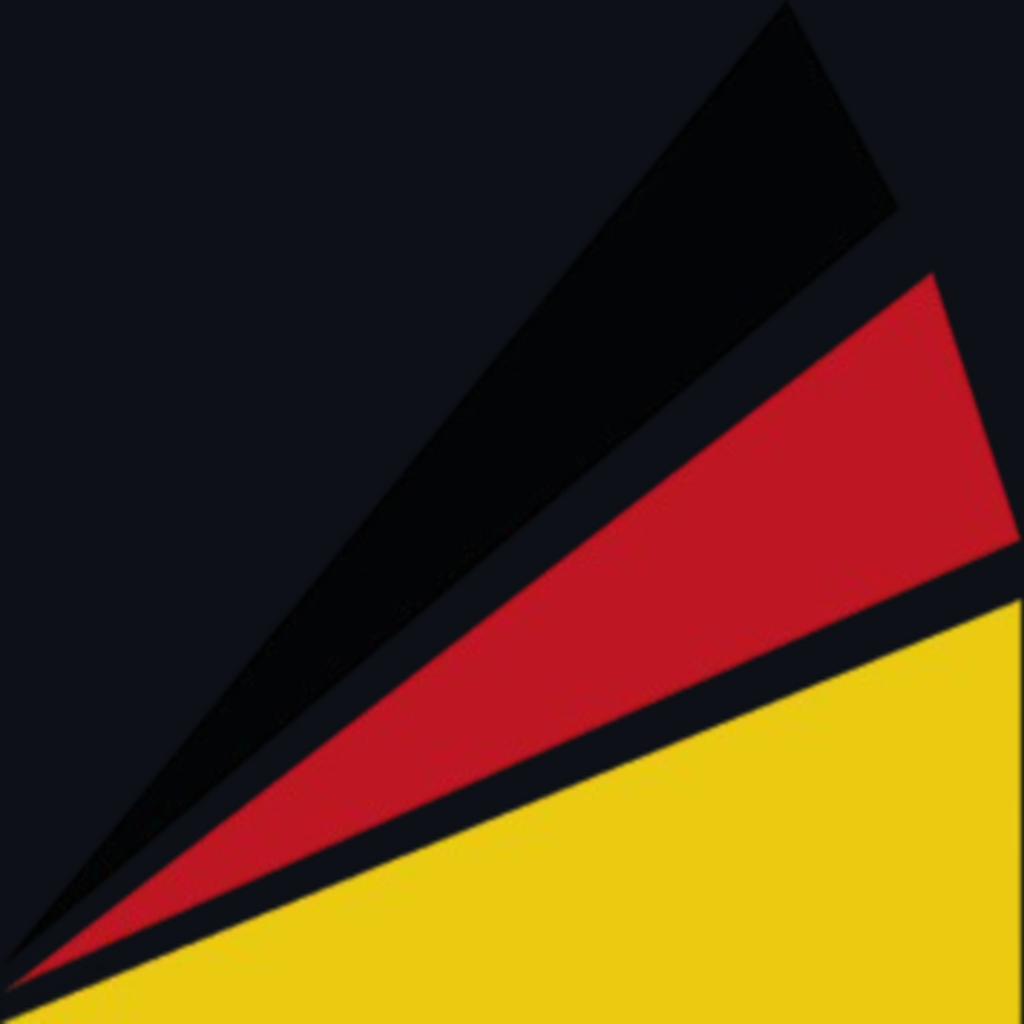
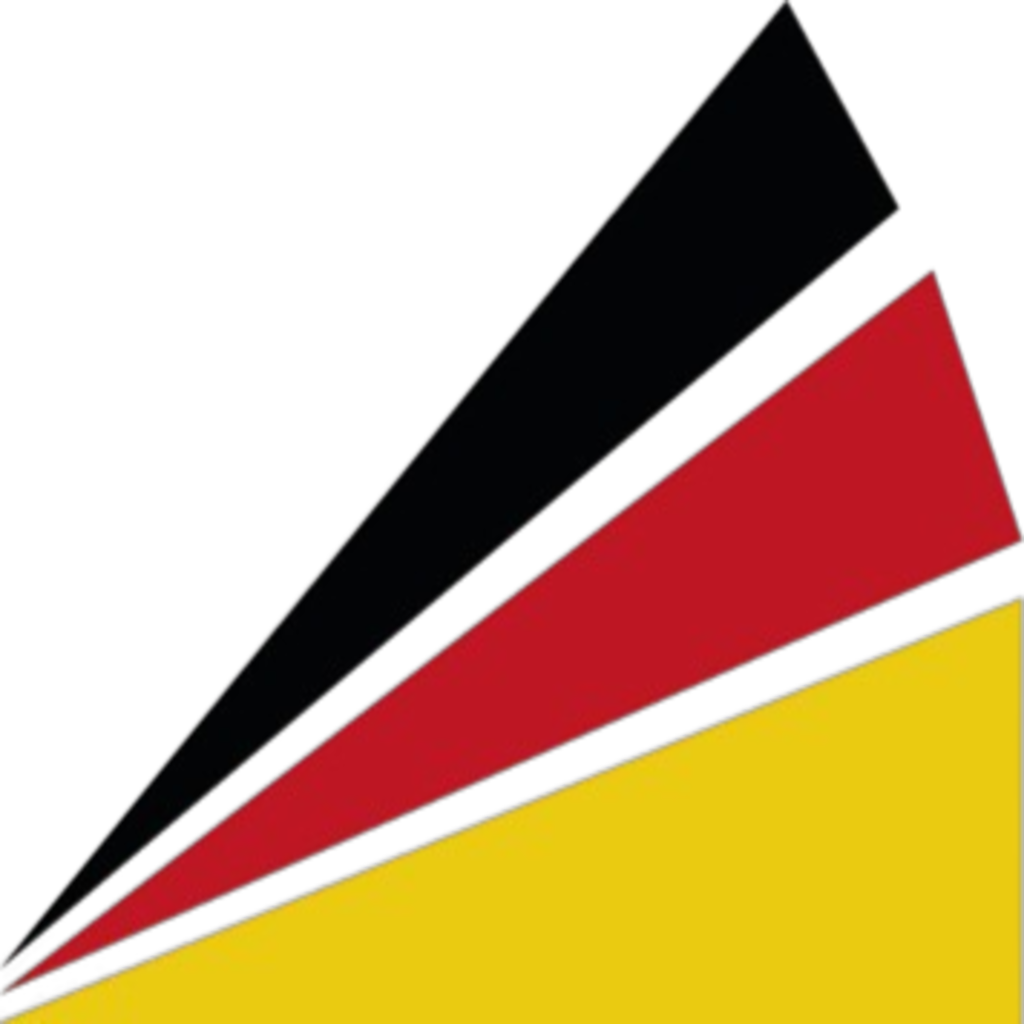
mobile: ajusta assets, env de build e mensagens de erro de login
- gen-assets.js e app.json: fundo dos icones/splash branco para destacar logo (preto/vermelho/amarelo)
- eas.json: define EXPO_PUBLIC_API_URL e chaves Supabase nos profiles preview/production (EAS nao le .env local)
- app/index.js: diferencia falha de rede (sem resposta) de credenciais invalidas no login

diff --git a/brucker-chamados/mobile/app/index.js b/brucker-chamados/mobile/app/index.js
@@ -7,6 +7,8 @@ import AsyncStorage from '@react-native-async-storage/async-storage';
 import { useRouter } from 'expo-router';
 import { Feather } from '@expo/vector-icons';
 import api from '../lib/api';
+
+const API_URL_DEBUG = process.env.EXPO_PUBLIC_API_URL || 'http://localhost:3001/api';
 import { useTheme } from '../contexts/ThemeContext';
 import { registrarPushNotifications } from '../lib/notifications';
 
@@ -84,10 +86,16 @@ export default function LoginScreen() {
         router.replace('/home');
       }
     } catch (err) {
-      const msg = perfil === 'cliente'
-        ? 'Código de acesso inválido'
-        : 'Credenciais inválidas';
-      Alert.alert('Erro', err.response?.data?.error || msg);
+      let msg;
+      if (err.response) {
+        msg = err.response.data?.error
+          || (perfil === 'cliente' ? 'Código de acesso inválido' : 'Credenciais inválidas');
+      } else if (err.request) {
+        msg = `Sem resposta do servidor (${API_URL_DEBUG}). Verifique sua conexão ou se o backend está no ar.`;
+      } else {
+        msg = `Erro de configuração: ${err.message}`;
+      }
+      Alert.alert('Erro', msg);
     } finally {
       setCarregando(false);
     }

diff --git a/tool-assets/gen-assets.js b/tool-assets/gen-assets.js
@@ -5,7 +5,7 @@ const path = require('path');
 
 const SRC = path.resolve(__dirname, '../brucker-chamados/mobile/assets/logo-icon-square.png');
 const OUT = path.resolve(__dirname, '../brucker-chamados/mobile/assets');
-const BG = { r: 13, g: 17, b: 23, alpha: 1 }; // #0D1117
+const BG = { r: 255, g: 255, b: 255, alpha: 1 }; // #FFFFFF — fundo branco para destacar preto/vermelho/amarelo da logo
 
 async function run() {
   // 1) icon.png — 1024x1024, SEM alpha (Apple rejeita alpha)
